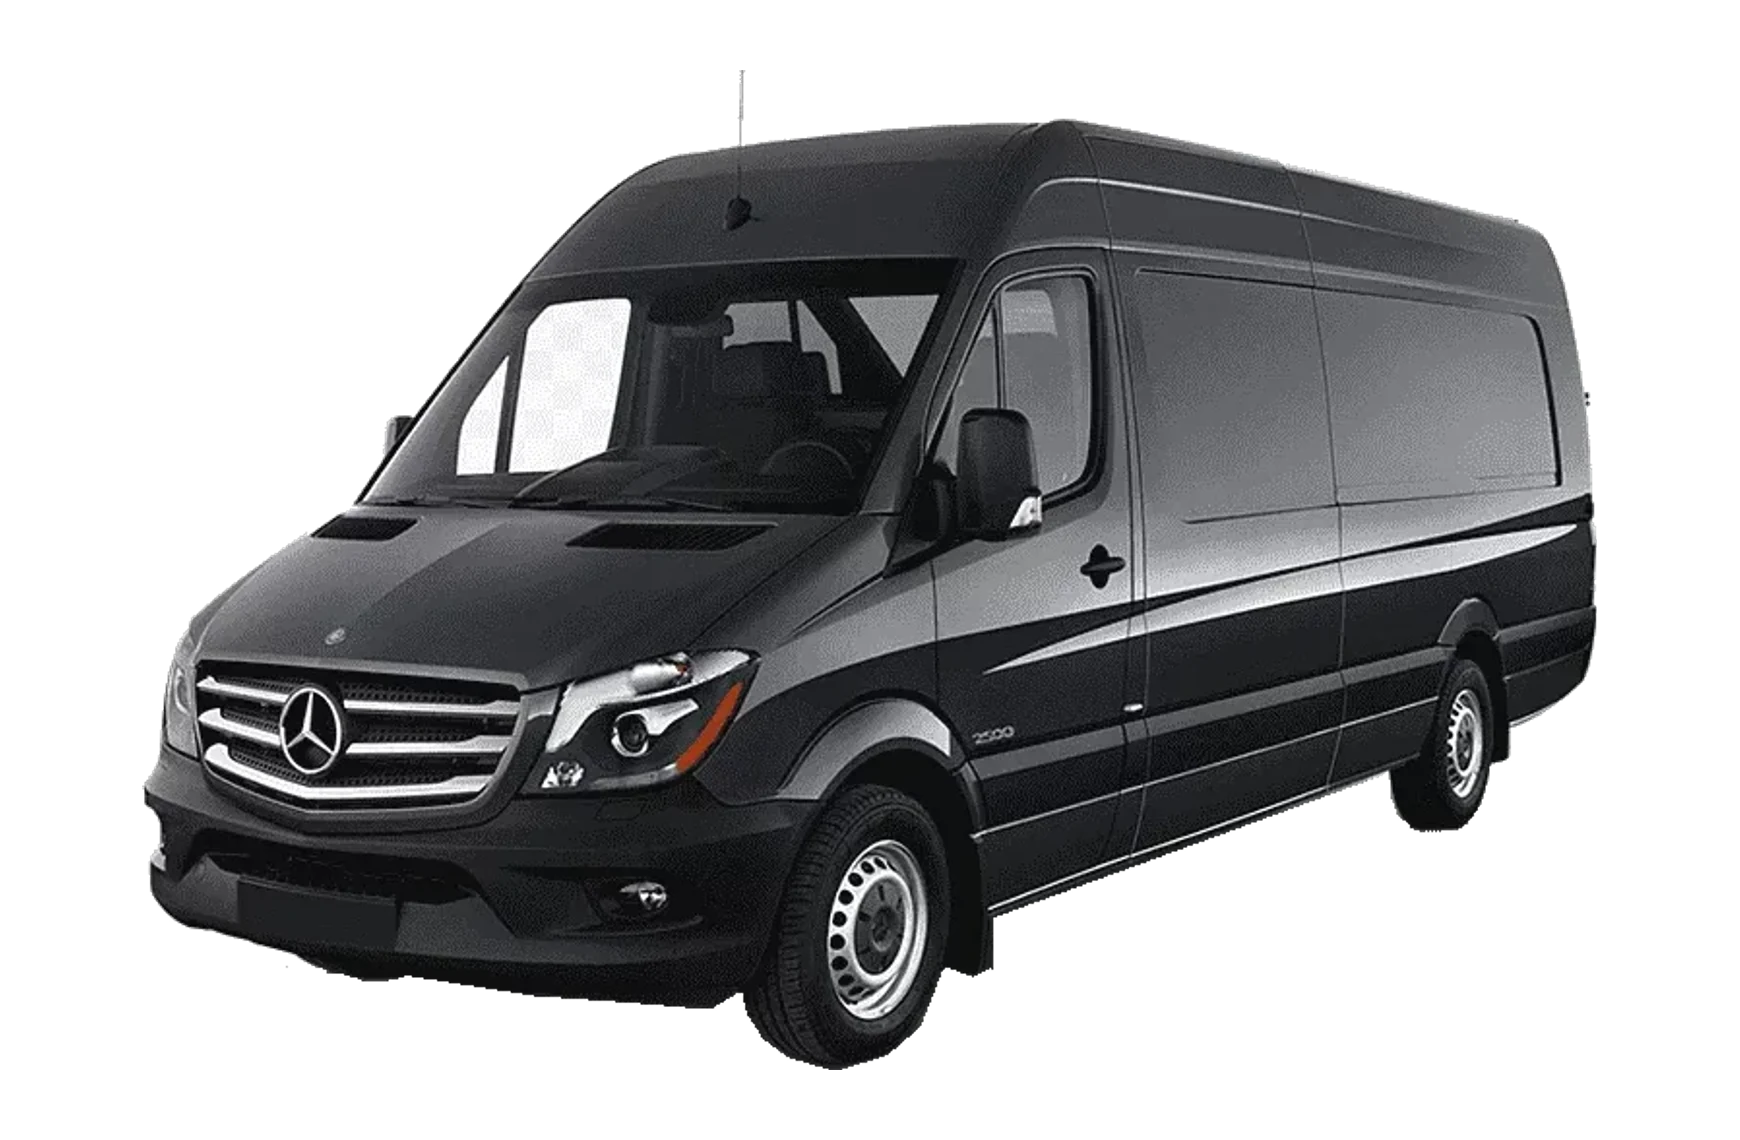
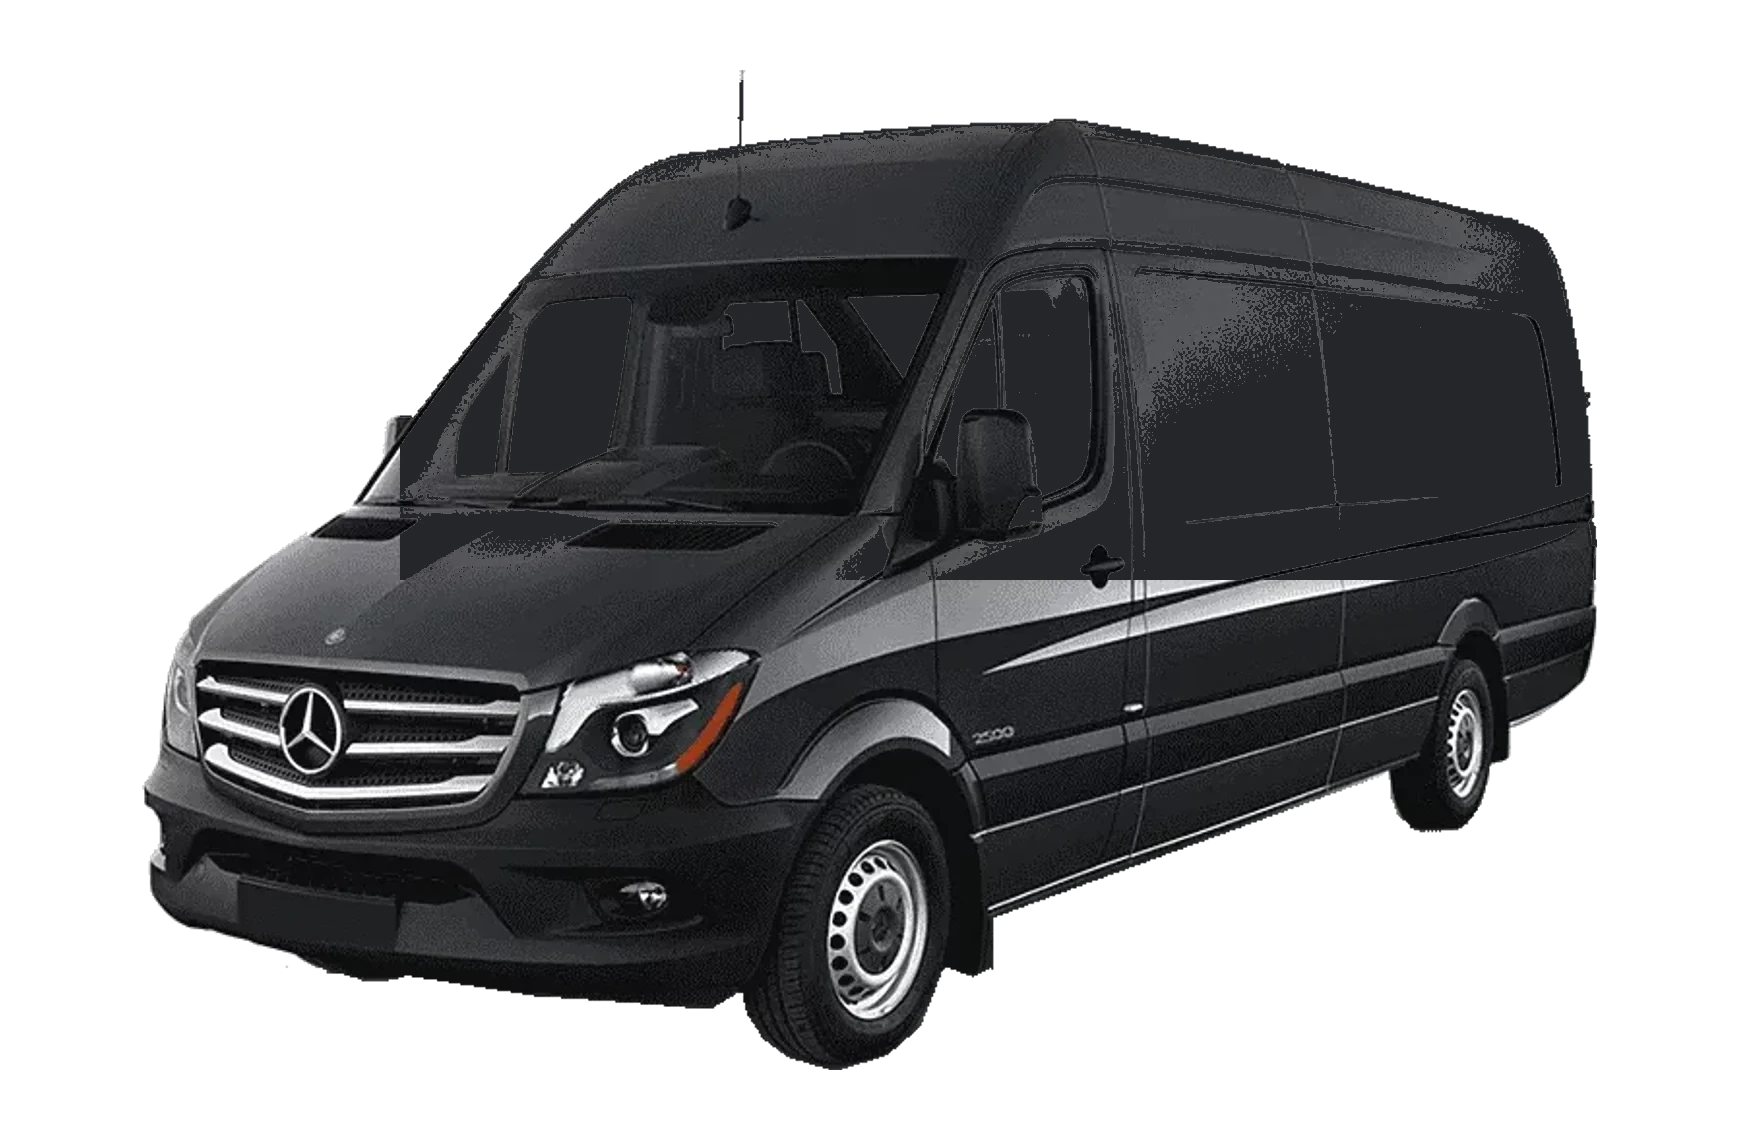
fix(fleet): clean sprinter windshield + remove ribbed bg
- Patched Sprinter PNG: replaced baked-in transparency-checkerboard
  pixels in the windshield/side-window bbox with a dark glass tone
- Removed repeating-linear-gradient (vertical lines) from .cardPhoto
  background, which was visible through transparent vehicle windows

diff --git a/components/sections/Fleet.module.css b/components/sections/Fleet.module.css
@@ -141,13 +141,6 @@
       rgba(255, 252, 244, 0.92) 0%,
       rgba(255, 252, 244, 0) 58%
     ),
-    repeating-linear-gradient(
-      90deg,
-      transparent,
-      transparent 36px,
-      rgba(138, 111, 51, 0.04) 36px,
-      rgba(138, 111, 51, 0.04) 37px
-    ),
     linear-gradient(180deg, #ede5d2 0%, #f5f0e2 45%, #e5dbc4 100%);
   position: relative;
   display: flex;
